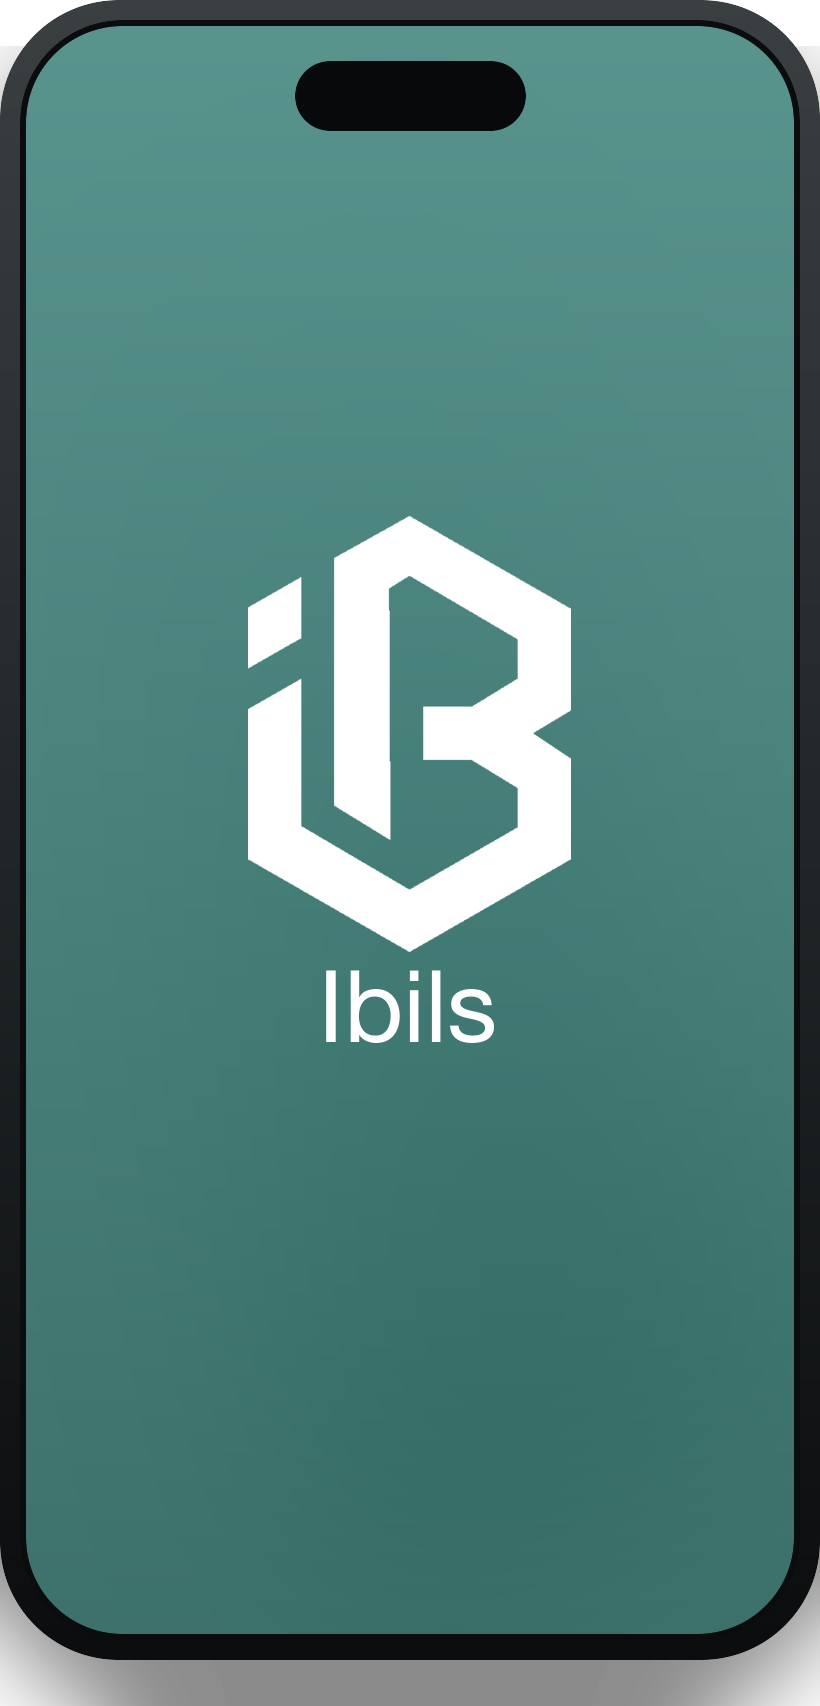
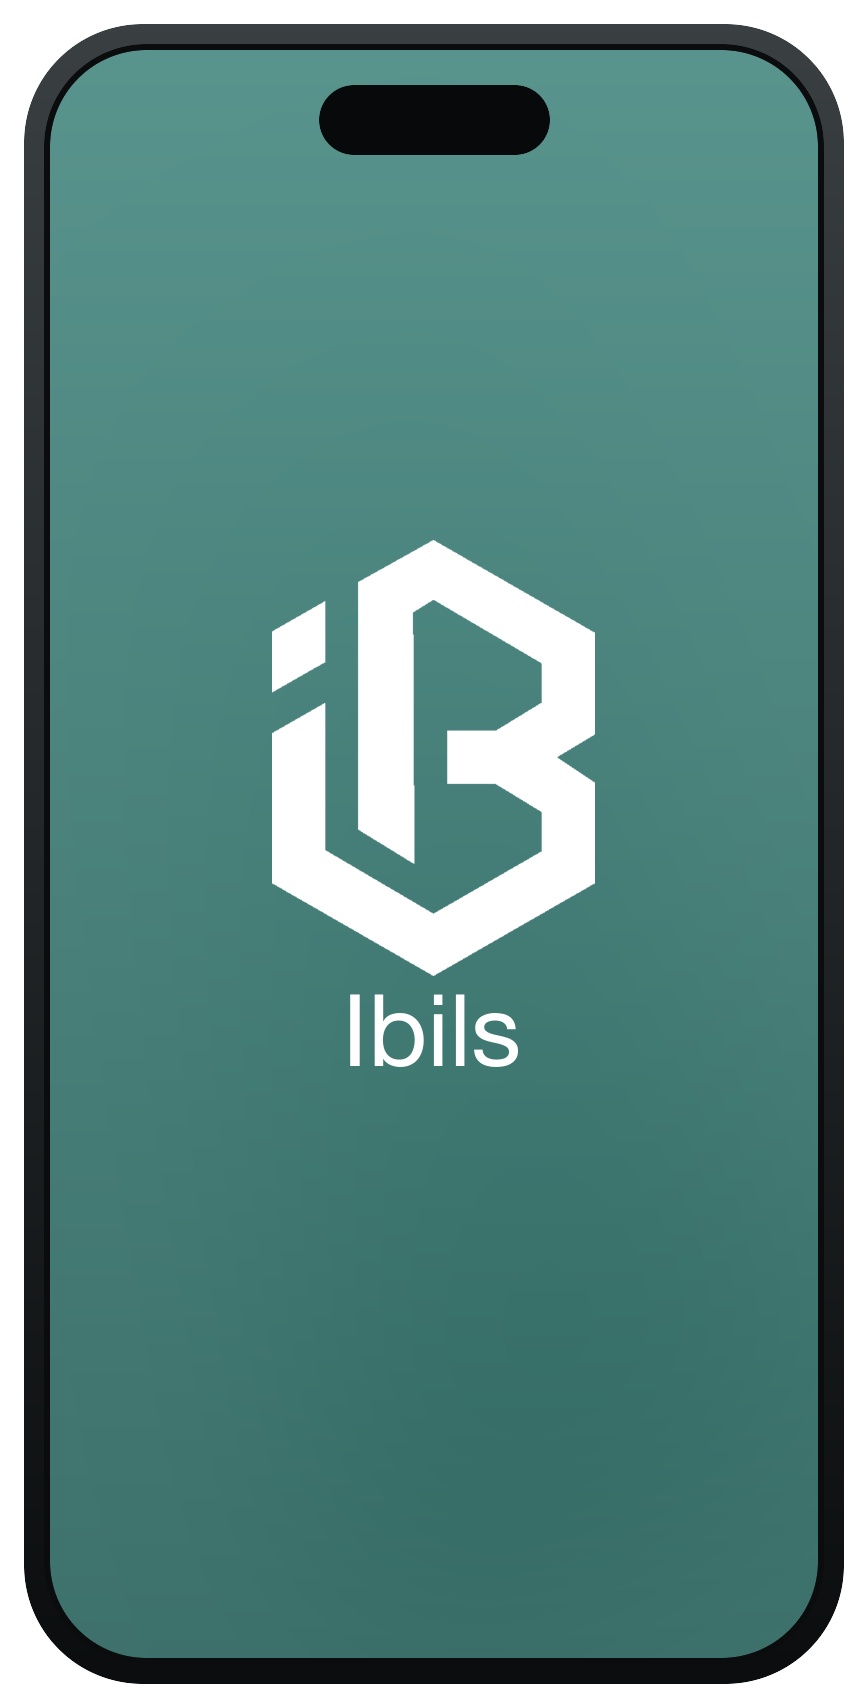
fix(closing): render the plate instead of generating it; kill the baked shadow and the stale offset
Owner, on the same slide, for the third time: "ada shadow" and "posisi playstore dan
appstore berantakan".

TWO DEFECTS, BOTH STALE GEOMETRY THAT OUTLIVED ITS REASON.

* THE SHADOW WAS A BOX. It was baked into closing-phone.png, and the last line of
  make-closing-phone.mjs called `-trim` — which crops the canvas to the bounding box of
  everything non-transparent, and therefore cropped straight through the shadow's own soft
  falloff. Measured: alpha 13-115 sitting ON the canvas edge. A gradient that is still 45%
  opaque when it runs out of canvas is not a shadow, it is a rectangle. A shadow also
  cannot be baked on principle — it depends on the surface beneath it, and an asset does
  not know what it will be dropped onto. It is drawn at the composite now, where the
  background is known. The asset asserts it reaches alpha=0 on all four edges.

* THE BADGES WERE 100px OFF-CENTRE. finalize had `-geometry +100+95` to dodge Himel, who
  used to stand in the bottom-left of the closing slide. Himel is not drawn on this slide
  any more. The offset had stopped dodging anything and was just pushing the badges off
  centre. Now +0, and the rendered slide is MEASURED (badge centre must be within 6px of
  540).

AND THE REAL FIX: THE CLOSING PLATE IS NO LONGER GENERATED.

This slide has come back three times, and every re-roll fixed the reported defect and
introduced a new one — because every re-roll went back to codex for the plate, and codex is
[…]

Changed region(s): [[0.0, 0.0, 1.0, 1.0], [0.3049, 0.2796, 0.7012, 0.6213]]

diff --git a/scripts/finalize.js b/scripts/finalize.js
@@ -270,18 +270,52 @@ async function main() {
             `${(inkFrac * 100).toFixed(2)}% edges — that is TYPE OR ARTWORK, and the phone is about to be ` +
             `pasted on top of it. Re-roll the plate: the headline must stay left of x=${TYPE_COL}.`);
         }
+        // THE SHADOW IS DRAWN HERE, NOT BAKED INTO THE ASSET.
+        //
+        // It used to live in closing-phone.png and it shipped a visible dark RECTANGLE around the
+        // device, because the asset's own `-trim` cropped the canvas straight through the shadow's
+        // falloff — leaving it 45% opaque at the pixel where the image ran out. A gradient cut off
+        // mid-fade is a box.
+        //
+        // A shadow depends on the surface under it, and an asset cannot know what it will be dropped
+        // onto. So it is drawn at the composite, where the background is actually known.
+        const gx0 = dx >= 0 ? `+${dx}` : `${dx}`;
+        const gy0 = dy >= 0 ? `+${dy}` : `${dy}`;
         await convert([
-          file, "(", CLOSING_PHONE, "-resize", `x${PHONE_H}`, ")",
-          "-gravity", "center", "-geometry", `${dx >= 0 ? "+" : ""}${dx}${dy >= 0 ? "+" : ""}${dy}`, "-composite",
+          file,
+          "(", CLOSING_PHONE, "-resize", `x${PHONE_H}`,
+          "-background", "black", "-shadow", "40x22+0+16", ")",
+          "-gravity", "center", "-geometry", `${gx0}${dy + 10 >= 0 ? "+" : ""}${dy + 10}`, "-composite",
+          "(", CLOSING_PHONE, "-resize", `x${PHONE_H}`, ")",
+          "-gravity", "center", "-geometry", `${gx0}${gy0}`, "-composite",
           file
         ]);
-        // store badges — small, composited from the hi-res official asset
-        // (downscaled = crisp), sitting on the plain bg, no card behind.
+        // store badges — small, composited from the hi-res official asset (downscaled = crisp),
+        // sitting on the plain bg, no card behind.
+        //
+        // CENTRED. The +100 x-offset that used to be here was there to dodge Himel, who stood in the
+        // bottom-left of the closing slide. Himel is no longer drawn on this slide at all, so the
+        // offset had stopped dodging anything and was simply pushing the badges 100px off-centre —
+        // which is what "posisi playstore dan appstore berantakan" actually was. Stale geometry
+        // outlives the thing it was avoiding, and it never announces itself.
         await convert([
           file, "(", STORE_BADGES, "-resize", `${BADGES_W}x`, ")",
-          "-gravity", "south", "-geometry", "+100+95", "-composite",
+          "-gravity", "south", "-geometry", "+0+95", "-composite",
           file
         ]);
+
+        // and PROVE they are centred. This is one line, and the defect it catches was visible to the
+        // owner from across the room while every gate in this file reported success.
+        const bstrip = await convert([file, "-crop", "1080x180+0+1150", "+repage",
+          "-fuzz", "12%", "-transparent", "srgb(9,58,32)", "-format", "%@", "info:"]).catch(() => null);
+        const m = bstrip && /^(\d+)x(\d+)\+(\d+)\+/.exec(bstrip.stdout.trim());
+        if (m) {
+          const centre = Number(m[3]) + Number(m[1]) / 2;
+          if (Math.abs(centre - 540) > 6) {
+            throw new Error(`the store badges are centred at x=${centre.toFixed(0)}, not 540 — they are ` +
+              `${Math.abs(centre - 540).toFixed(0)}px off-centre on a 1080px slide`);
+          }
+        }
         console.log(`${name}: 1080x1350 + logo + phone + store badges`);
       } else {
         console.log(`${name}: 1080x1350 + logo`);